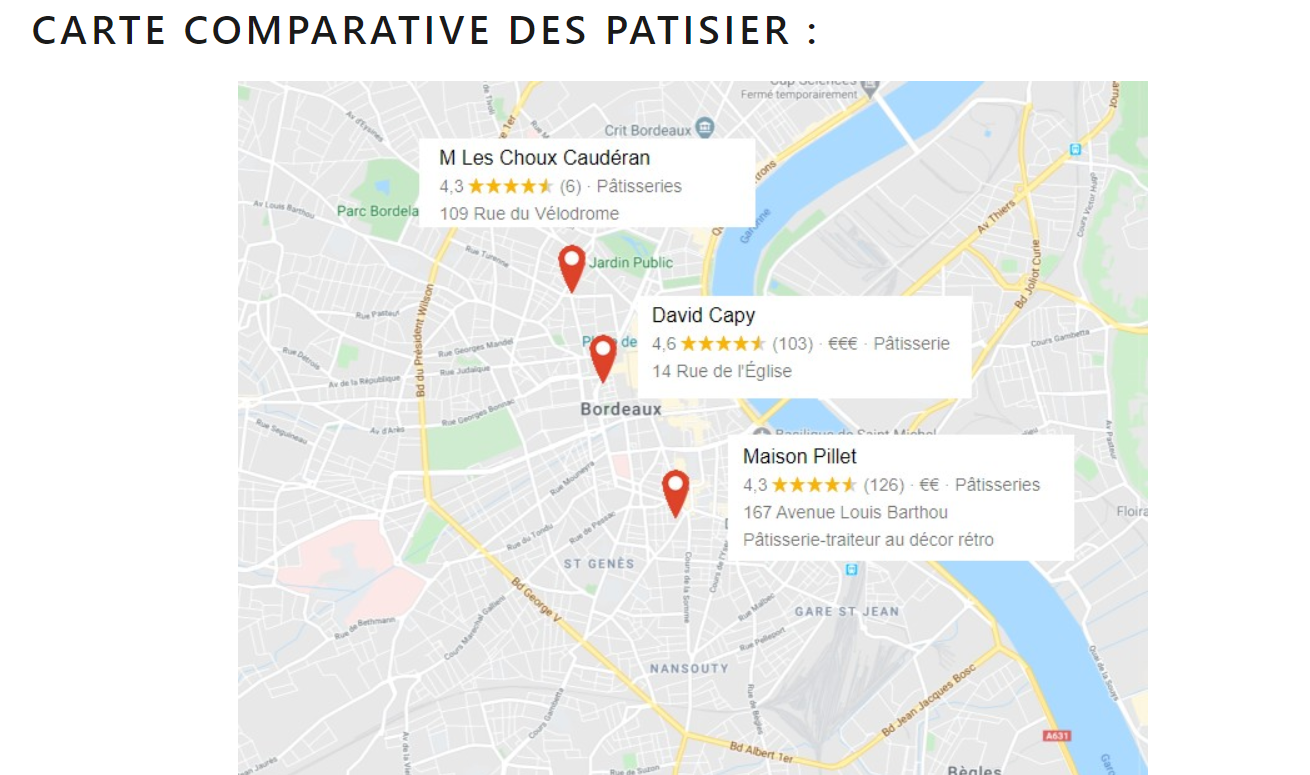
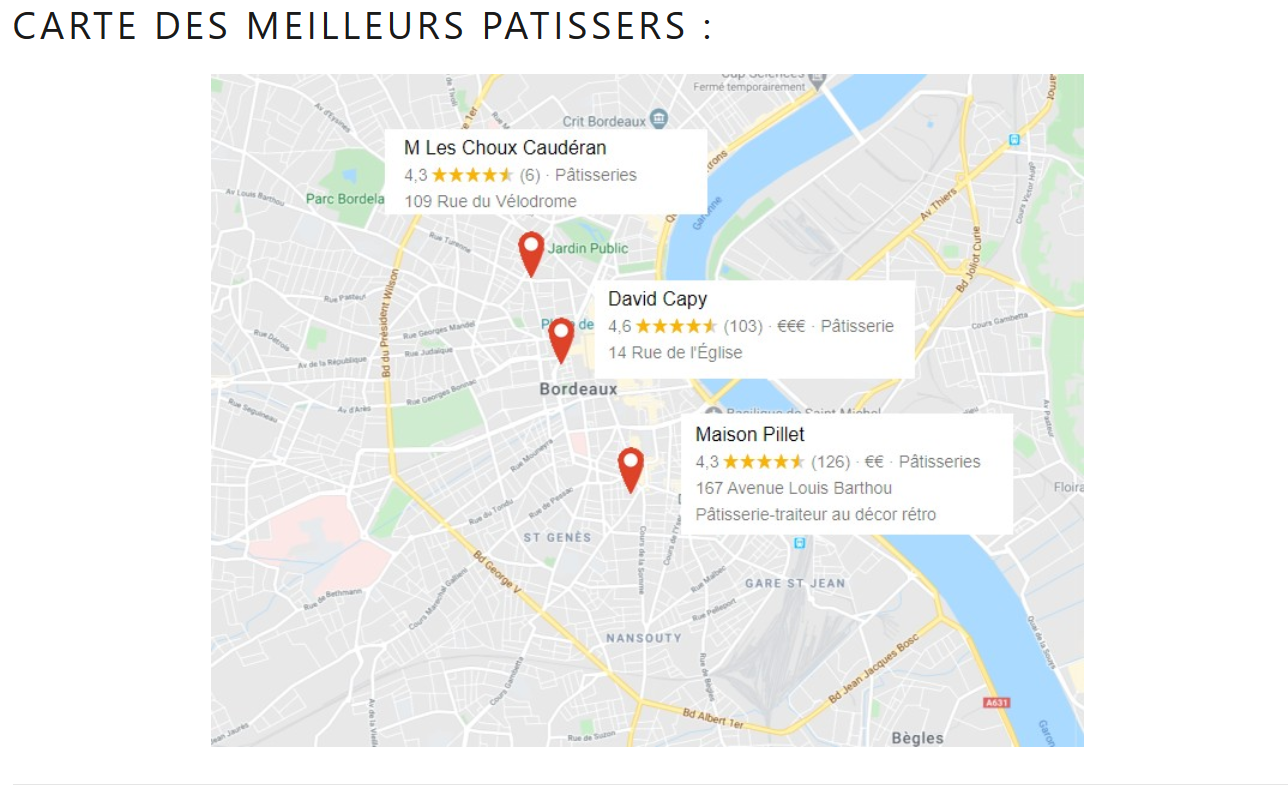
Edge Water - 0.1.7 - Changement du nom des cartes

diff --git a/resources/views/comparatives/index.blade.php b/resources/views/comparatives/index.blade.php
@@ -23,10 +23,10 @@
     <div class = "container">
         <div>
             <hr>
-            <h2>Carte comparative des patisier :</h2>
+            <h2>Carte des meilleurs patissers :</h2>
             <img class = "img" src="https://cdn.discordapp.com/attachments/517364842659577858/710766195829112902/Carte_patisier.jpg" alt="">
             <hr>
-            <h2>Carte comparative des cordonniers :</h2>
+            <h2>Carte des meilleurs cordonniers :</h2>
             <img class = "img" src="https://media.discordapp.net/attachments/517364842659577858/710766944940195900/unknown.png?width=731&height=564" alt="">
         </div>
     </div>
